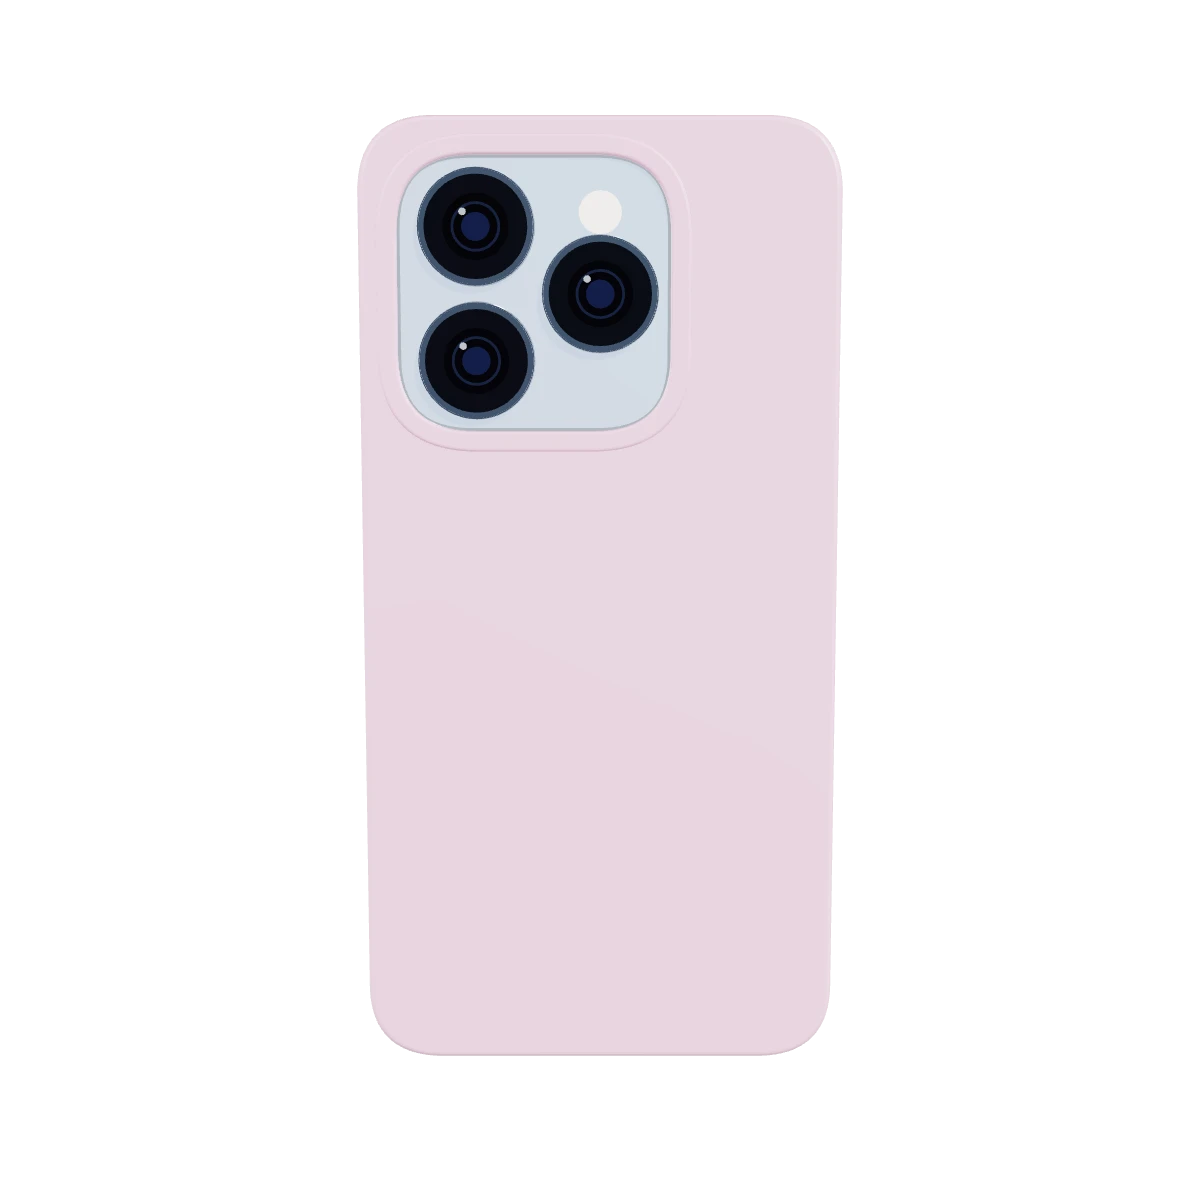
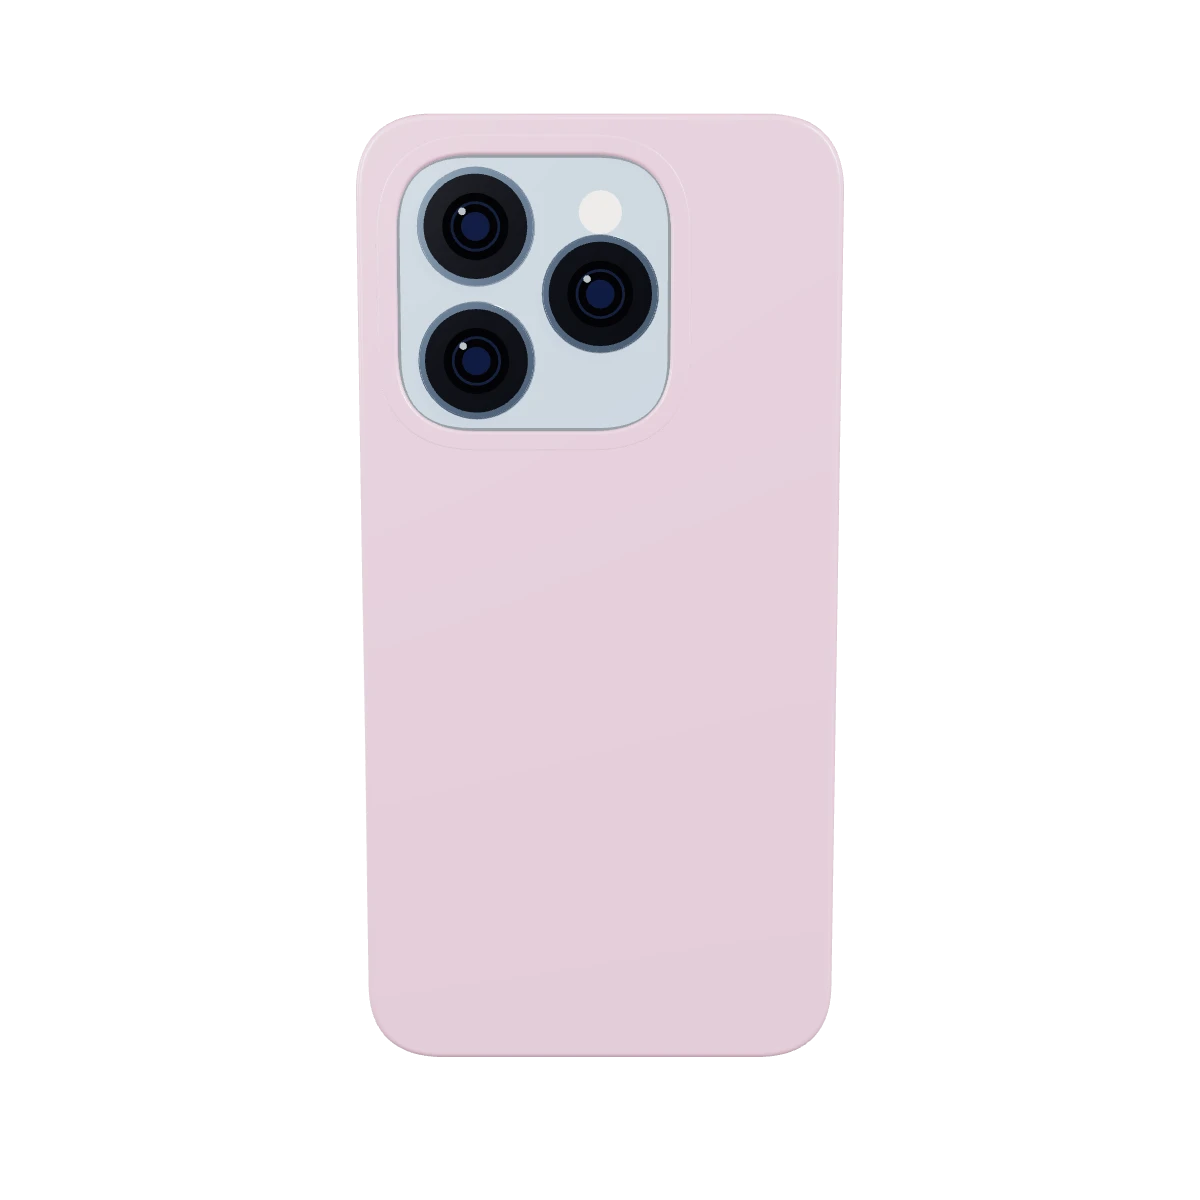
Calidad fotográfica del visor: softbox de estudio, grano de silicona y geometría pulida
- Iluminación de estudio con luces de área (softbox principal y relleno
  cálido) que dan el degradado suave de producto real sobre la trasera;
  exposición recalibrada para que el color no se lave
- Micro-grano procedural de la silicona como mapa de rugosidad y relieve
- Biseles más amplios y el doble de segmentos en trasera, aro y paredes:
  silueta almohadillada sin facetas visibles
- Cristal de lente con iridiscencia y sombra interior del módulo más
  profunda, como en la foto de referencia
- Rosa tiza ajustado a #F1C6D2 para que se lea rosa bajo la luz nueva
- Renders regenerados con el resultado final

Claude-Session: https://claude.ai/code/session_01YFBaP4QLKXGjZh9jKHsT8r

diff --git a/src/editor/Viewer3D.tsx b/src/editor/Viewer3D.tsx
@@ -5,6 +5,7 @@ import * as THREE from 'three';
 import { Canvas, useFrame, useThree } from '@react-three/fiber';
 import type { ThreeEvent } from '@react-three/fiber';
 import { ContactShadows, Environment, OrbitControls } from '@react-three/drei';
+import { RectAreaLightUniformsLib } from 'three/examples/jsm/lights/RectAreaLightUniformsLib.js';
 import type { OrbitControls as OrbitControlsImpl } from 'three-stdlib';
 import { buildCaseGeometry, buildElementMesh, mmToWorld } from '@/assets-procedural';
 import { computeFitDistance, computeFitTargetY, computePieceFitDistance } from './camera/fit';
@@ -19,6 +20,36 @@ import type { PlacedItem } from '@/lib/collision';
  */
 
 const DEG = Math.PI / 180;
+
+// Uniforms de rectAreaLight (softbox): se inicializan una sola vez
+let rectAreaReady = false;
+function ensureRectAreaUniforms() {
+  if (!rectAreaReady) {
+    RectAreaLightUniformsLib.init();
+    rectAreaReady = true;
+  }
+}
+
+/** Softbox de estudio: luz de area orientada al origen, con caida suave. */
+function Softbox({
+  position,
+  size,
+  intensity,
+  color = '#FFFFFF',
+}: {
+  position: [number, number, number];
+  size: [number, number];
+  intensity: number;
+  color?: string;
+}) {
+  const ref = useRef<THREE.RectAreaLight>(null);
+  useEffect(() => {
+    ref.current?.lookAt(0, 0, 0);
+  }, []);
+  return (
+    <rectAreaLight ref={ref} args={[color, intensity, size[0], size[1]]} position={position} />
+  );
+}
 
 export interface ItemVisualState {
   selected?: boolean;
@@ -603,8 +634,9 @@ export function Viewer3D({
           ],
         }}
         onCreated={({ gl }) => {
+          ensureRectAreaUniforms();
           gl.toneMapping = THREE.ACESFilmicToneMapping;
-          gl.toneMappingExposure = 1.05;
+          gl.toneMappingExposure = 0.98;
           gl.outputColorSpace = THREE.SRGBColorSpace;
         }}
         onPointerMissed={onBackgroundTap}
@@ -622,15 +654,20 @@ export function Viewer3D({
           autoRotate={autoRotate}
         />
 
-        {/* SS9.1: principal 1.2 con sombras + relleno 0.35 + rim trasera 0.25 (E2.3) */}
-        <hemisphereLight args={['#FFFFFF', '#EADDE4', 0.4]} />
+        {/* Estudio fotografico (SS9.1/E2.3): softbox principal arriba a la
+            izquierda (degradado suave sobre la trasera plana), relleno calido
+            a la derecha, hemisferica tenue y una direccional baja solo para
+            proyectar la sombra que las luces de area no pueden dar */}
+        <hemisphereLight args={['#FFFFFF', '#EADDE4', 0.18]} />
+        <Softbox position={[-160, 190, 210]} size={[340, 340]} intensity={1.6} />
+        <Softbox position={[210, 30, 170]} size={[260, 260]} intensity={0.5} color="#FFF4EE" />
         <directionalLight
           position={[
             Math.cos(35 * DEG) * Math.sin(30 * DEG) * 200,
             Math.sin(35 * DEG) * 200,
             Math.cos(35 * DEG) * Math.cos(30 * DEG) * 200,
           ]}
-          intensity={0.95}
+          intensity={0.4}
           castShadow
           shadow-mapSize={lowPerf ? [1024, 1024] : [2048, 2048]}
           shadow-camera-left={-device.altoMm}
@@ -638,8 +675,8 @@ export function Viewer3D({
           shadow-camera-top={device.altoMm}
           shadow-camera-bottom={-device.altoMm}
         />
-        <directionalLight position={[-120, -40, -160]} intensity={0.35} />
-        <directionalLight position={[40, 120, -220]} intensity={0.25} />
+        <directionalLight position={[-120, -40, -160]} intensity={0.3} />
+        <directionalLight position={[40, 120, -220]} intensity={0.22} />
 
         <Suspense fallback={null}>
           {/* E2: HDR de estudio real servido desde el propio origen; 512 en
@@ -647,7 +684,7 @@ export function Viewer3D({
           <Environment
             files="/env/studio.hdr"
             resolution={lowPerf ? 256 : 512}
-            environmentIntensity={0.9}
+            environmentIntensity={0.7}
           />
 
           <group position={[0, 0, 0]}>

diff --git a/src/assets-procedural/materials.ts b/src/assets-procedural/materials.ts
@@ -10,6 +10,38 @@ function lighten(hex: string, amount: number): THREE.Color {
   return c.lerp(new THREE.Color('#ffffff'), amount);
 }
 
+// Micro-grano de la silicona: ruido suave compartido como mapa de rugosidad
+// y de relieve. Se genera una sola vez; en SSR no hay document y se omite.
+let siliconeGrain: THREE.CanvasTexture | null = null;
+function siliconeGrainMap(): THREE.CanvasTexture | null {
+  if (typeof document === 'undefined') return null;
+  if (siliconeGrain) return siliconeGrain;
+  const size = 256;
+  const canvas = document.createElement('canvas');
+  canvas.width = size;
+  canvas.height = size;
+  const ctx = canvas.getContext('2d');
+  if (!ctx) return null;
+  const img = ctx.createImageData(size, size);
+  for (let i = 0; i < img.data.length; i += 4) {
+    const v = 208 + Math.floor(Math.random() * 34);
+    img.data[i] = v;
+    img.data[i + 1] = v;
+    img.data[i + 2] = v;
+    img.data[i + 3] = 255;
+  }
+  ctx.putImageData(img, 0, 0);
+  // Suavizado leve para que el grano no parezca ruido digital
+  ctx.filter = 'blur(1.2px)';
+  ctx.drawImage(canvas, 0, 0);
+  siliconeGrain = new THREE.CanvasTexture(canvas);
+  siliconeGrain.wrapS = THREE.RepeatWrapping;
+  siliconeGrain.wrapT = THREE.RepeatWrapping;
+  // Las UV de la extrusion van en mm: un ciclo cada 20mm deja grano ~0.08mm
+  siliconeGrain.repeat.set(0.05, 0.05);
+  return siliconeGrain;
+}
+
 /** SS9.2 — material de la funda segun su tipo. */
 export function caseMaterial(material: string, colorHex: string): THREE.MeshPhysicalMaterial {
   const color = new THREE.Color(colorHex);
@@ -43,17 +75,22 @@ export function caseMaterial(material: string, colorHex: string): THREE.MeshPhys
         iridescenceIOR: 1.3,
       });
     case 'silicona':
-    default:
+    default: {
+      const grain = siliconeGrainMap();
       return new THREE.MeshPhysicalMaterial({
         color,
-        roughness: 0.46,
-        sheen: 0.65,
-        sheenRoughness: 0.6,
-        sheenColor: lighten(colorHex, 0.25),
-        clearcoat: 0.06,
-        clearcoatRoughness: 0.5,
+        roughness: 0.5,
+        roughnessMap: grain ?? undefined,
+        bumpMap: grain ?? undefined,
+        bumpScale: 0.12,
+        sheen: 0.75,
+        sheenRoughness: 0.55,
+        sheenColor: lighten(colorHex, 0.15),
+        clearcoat: 0.1,
+        clearcoatRoughness: 0.55,
         envMapIntensity: 1.0,
       });
+    }
   }
 }
 

diff --git a/src/assets-procedural/caseGeometry.ts b/src/assets-procedural/caseGeometry.ts
@@ -155,10 +155,10 @@ export function buildCaseGeometry(device: CaseDeviceSpec, material: string, colo
   const backGeo = new THREE.ExtrudeGeometry(backShape, {
     depth: grosor,
     bevelEnabled: true,
-    bevelThickness: 0.9,
-    bevelSize: 0.9,
-    bevelSegments: 4,
-    curveSegments: 24,
+    bevelThickness: 1.1,
+    bevelSize: 1.1,
+    bevelSegments: 7,
+    curveSegments: 48,
   });
   backGeo.translate(0, 0, -grosor);
   const back = new THREE.Mesh(backGeo, mat);
@@ -189,8 +189,8 @@ export function buildCaseGeometry(device: CaseDeviceSpec, material: string, colo
       bevelEnabled: true,
       bevelThickness: 0.55,
       bevelSize: 0.55,
-      bevelSegments: 4,
-      curveSegments: 20,
+      bevelSegments: 6,
+      curveSegments: 40,
     });
     lipRingGeo.translate(icx, icy, -0.3);
     const lipRing = new THREE.Mesh(lipRingGeo, mat.clone());
@@ -233,7 +233,10 @@ export function buildCaseGeometry(device: CaseDeviceSpec, material: string, colo
       roughness: 0.05,
       clearcoat: 1,
       clearcoatRoughness: 0.04,
-      envMapIntensity: 1.4,
+      envMapIntensity: 1.7,
+      iridescence: 0.55,
+      iridescenceIOR: 1.3,
+      iridescenceThicknessRange: [120, 480],
     });
     const pupilMat = new THREE.MeshPhysicalMaterial({
       color: '#1B2340',
@@ -250,7 +253,7 @@ export function buildCaseGeometry(device: CaseDeviceSpec, material: string, colo
       new THREE.MeshBasicMaterial({
         color: '#000000',
         transparent: true,
-        opacity: 0.16,
+        opacity: 0.26,
         depthWrite: false,
       }),
     );
@@ -362,10 +365,10 @@ export function buildCaseGeometry(device: CaseDeviceSpec, material: string, colo
   const wallGeo = new THREE.ExtrudeGeometry(wallShape, {
     depth: PHONE_DEPTH_MM,
     bevelEnabled: true,
-    bevelThickness: 0.7,
-    bevelSize: 0.7,
-    bevelSegments: 3,
-    curveSegments: 24,
+    bevelThickness: 0.85,
+    bevelSize: 0.85,
+    bevelSegments: 6,
+    curveSegments: 48,
   });
   wallGeo.translate(0, 0, -PHONE_DEPTH_MM - grosor + 0.01);
   const wall = new THREE.Mesh(wallGeo, mat.clone());

diff --git a/prisma/seed.ts b/prisma/seed.ts
@@ -79,7 +79,7 @@ const CASES: CaseSeed[] = [
     slug: 'silicona-soft', nombre: 'Silicona Soft', material: 'silicona', destacada: true,
     descripcion: 'Tacto suave y agarre firme para el dia a dia. Protege sin sumar peso y las piezas se asientan sobre ella como si siempre hubieran estado ahi.',
     variantes: [
-      { colorNombre: 'Rosa', colorHex: '#F3D3DB', precioCentimos: 1995 },
+      { colorNombre: 'Rosa', colorHex: '#F1C6D2', precioCentimos: 1995 },
       { colorNombre: 'Lavanda', colorHex: '#C3B1E1', precioCentimos: 1995 },
       { colorNombre: 'Crema', colorHex: '#F5EBDD', precioCentimos: 1995 },
       { colorNombre: 'Negro', colorHex: '#1E1E1E', precioCentimos: 1995 },

diff --git a/src/app/page.tsx b/src/app/page.tsx
@@ -78,7 +78,7 @@ async function getHeroScene(): Promise<HeroSceneData | null> {
       moduloForma: device.moduloForma,
     },
     material: caseBase?.material ?? 'silicona',
-    colorHex: variant?.colorHex ?? '#F3D3DB',
+    colorHex: variant?.colorHex ?? '#F1C6D2',
     items: (data.elementos ?? []).map((e, i) => ({
       instanceId: e.instanceId ?? `hero-${i}`,
       elementId: e.elementId,
